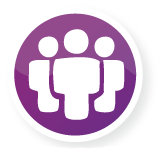
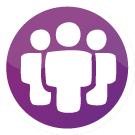
menu
hover a los botones

diff --git a/css/styles.css b/css/styles.css
@@ -3,16 +3,33 @@ body {
     background-image: url("../img/fondo.png");
    
 }
+.container-fluid{
+min-height:400px;
+}
 .usuario{ /* header contiene el logo*/
- background: #f5f5f5;
- width:20%;
+ background: #722d7b;
+ width:15%;
  float:right;
  text-align:center;
+ color:white;
+ opacity:0.9;
+  -webkit-box-shadow: 0 3px 8px rgba(0, 0, 0, .25);
+  -moz-box-shadow: 0 3px 8px rgba(0, 0, 0, .25);
+  box-shadow: 0 3px 8px rgba(0, 0, 0, .25);
+  -webkit-border-radius: 3px;
+  -moz-border-radius: 3px;
+  border-radius: 3px;
 
 }
 .usuario .btn{ /* header contiene el logo*/
  width:100px;
  font-size:12px;
+ transition: all 0.3s ease 0s;
+  opacity: 1;
+}
+.usuario .btn:hover{
+	 opacity: 0.9;
+  box-shadow: inset 0 0 0 5px #f1f1f1;
 }
 header img{ /* header contiene el logo*/
 float:left;
@@ -35,7 +52,10 @@ float:left;
 .menuList{
 	width :69%;
 	margin: 0 auto;
+	transition: all 0.3s ease 0s;
 }
+
+
 
 .subMenu {
 	background:linear-gradient(135deg, #a32068 0%,#2e368f 100%);
@@ -45,6 +65,12 @@ float:left;
     padding-top:10px;
     padding-bottom:10px;
     line-height:1.6em;
+    -webkit-box-shadow: 0 3px 8px rgba(0, 0, 0, .25);
+  -moz-box-shadow: 0 3px 8px rgba(0, 0, 0, .25);
+  box-shadow: 0 3px 8px rgba(0, 0, 0, .25);
+  -webkit-border-radius: 3px;
+  -moz-border-radius: 3px;
+  border-radius: 3px;
 }
 
 .subMenu li:last-child{
@@ -69,14 +95,20 @@ float:left;
     display:block;
 }
 
+.menuList img:hover,.menuVertical img:hover{
+	 opacity: 0.8;
+	-webkit-transform: rotate(25deg);
+transform: rotate(25deg);
+
+}
 
 .menuVertical{
 	padding:0px;
 	text-decoration: none;
 	list-style:none;
 	display:block;
-	width:210px; 
 	float:left; 
+	transition: all 0.3s ease 0s;
 }
 .menuVertical img{
     height:100px;
@@ -92,8 +124,8 @@ float:left;
     line-height:1.6em;
 
 }
-.menuVertical li{
-
+.menuVertical> li{
+   margin-bottom:10px;
 }
 .cf:before, .cf:after{
   	content: '';
@@ -107,8 +139,9 @@ float:left;
 footer div{
 	margin-top:75px;
 	height:27px;
-	 background: #f5f5f5;
+	 background: #722d7b;
 	 padding:3px;
+	 color:white;
 }
 footer div p{
 	margin-right:50px;

diff --git a/index.html b/index.html
@@ -5,6 +5,7 @@
     <title>DakaSoft</title>
     <link rel="stylesheet" href="css/bootstrap.min.css">
     <link rel="stylesheet" href="css/styles.css">
+    <link rel="stylesheet" href="//maxcdn.bootstrapcdn.com/font-awesome/4.3.0/css/font-awesome.min.css">
   </head>
   <body>
       <header class="cf">
@@ -16,7 +17,7 @@
       </header>
      <menu></menu>
      </div>
-    <div class="cf" ui-view></div>
+    <div class="container-fluid cf" ui-view></div>
     <footer>
       <div><p>Cenfotec 2015</p></div>
     </footer>
